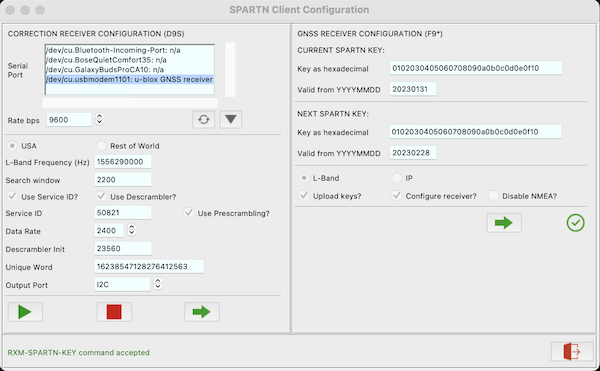
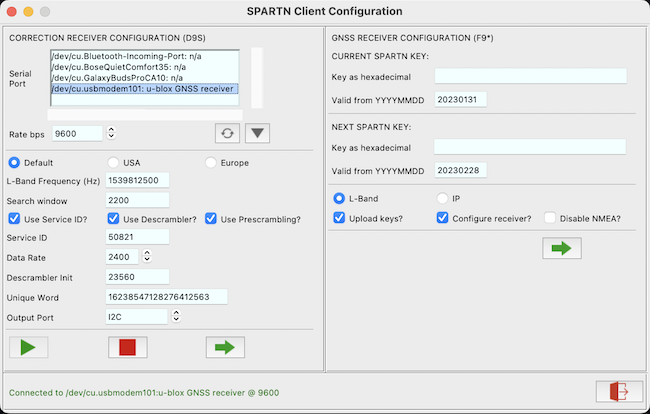
update docs

diff --git a/pygpsclient/spartn_dialog.py b/pygpsclient/spartn_dialog.py
@@ -49,6 +49,7 @@ from pyubx2 import (
     U4,
     TXN_NONE,
     SET_LAYER_RAM,
+    POLL_LAYER_RAM,
 )
 from pygpsclient.globals import (
     ICON_EXIT,
@@ -65,6 +66,7 @@ from pygpsclient.globals import (
     NOPORTS,
     SPARTN_EU,
     SPARTN_US,
+    SPARTN_FACTORY,
     SPARTN_DEFREG,
     SPARTN_LBAND,
     SPARTN_IP,
@@ -115,8 +117,8 @@ PMP_DATARATES = {
     "B4800": 4800,
 }
 SPARTN_PARMS = {
-    SPARTN_US: {
-        "freq": 1556290000,
+    SPARTN_FACTORY: {
+        "freq": 1539812500,
         "schwin": 2200,
         "usesid": 1,
         "sid": 50821,
@@ -126,12 +128,23 @@ SPARTN_PARMS = {
         "descrminit": 23560,
         "unqword": 16238547128276412563,
     },
+    SPARTN_US: {
+        "freq": 1556290000,
+        "schwin": 2200,
+        "usesid": 1,
+        "sid": 50821,
+        "drat": PMP_DATARATES["B2400"],
+        "descrm": 1,
+        "prescrm": 1,
+        "descrminit": 26969,
+        "unqword": 16238547128276412563,
+    },
     # TODO  CHECK THESE DEFAULT VALUES
     SPARTN_EU: {
         "freq": 1545260000,
         "schwin": 2200,
         "usesid": 1,
-        "sid": 21845,
+        "sid": 50821,
         "drat": PMP_DATARATES["B2400"],
         "descrm": 1,
         "prescrm": 1,
@@ -234,12 +247,18 @@ class SPARTNConfigDialog(Toplevel):
             msgmodes=list(MSGMODES.keys()),
             userport=self.__app.spartn_user_port,  # user-defined serial port
         )
+        self._rad_default = Radiobutton(
+            self._frm_corr,
+            text="Default",
+            variable=self._spartn_region,
+            value=SPARTN_FACTORY,
+        )
         self._rad_us = Radiobutton(
             self._frm_corr, text="USA", variable=self._spartn_region, value=SPARTN_US
         )
         self._rad_eu = Radiobutton(
             self._frm_corr,
-            text="Rest of World",
+            text="Europe",
             variable=self._spartn_region,
             value=SPARTN_EU,
         )
@@ -472,15 +491,16 @@ class SPARTNConfigDialog(Toplevel):
         ttk.Separator(self._frm_corr).grid(
             column=0, row=2, columnspan=4, padx=2, pady=3, sticky=(W, E)
         )
-        self._rad_us.grid(column=0, row=3, sticky=W)
-        self._rad_eu.grid(column=1, row=3, sticky=W)
+        self._rad_default.grid(column=0, row=3, sticky=W)
+        self._rad_us.grid(column=1, row=3, sticky=W)
+        self._rad_eu.grid(column=2, row=3, sticky=W)
         self._lbl_freq.grid(column=0, row=4, sticky=W)
         self._ent_freq.grid(column=1, row=4, columnspan=2, sticky=W)
         self._lbl_schwin.grid(column=0, row=5, sticky=W)
         self._ent_schwin.grid(column=1, row=5, columnspan=2, sticky=W)
         self._chk_usesid.grid(column=0, row=6, sticky=W)
         self._chk_descrm.grid(column=1, row=6, sticky=W)
-        self._chk_prescram.grid(column=2, row=7, sticky=W)
+        self._chk_prescram.grid(column=2, row=6, sticky=W)
         self._lbl_sid.grid(column=0, row=7, sticky=W)
         self._ent_sid.grid(column=1, row=7, columnspan=3, sticky=W)
         self._lbl_drat.grid(column=0, row=8, sticky=W)
@@ -706,6 +726,10 @@ class SPARTNConfigDialog(Toplevel):
         self._btn_d9sconnect.config(state=DISABLED)
         self._btn_d9sdisconnect.config(state=NORMAL)
 
+        # poll current configuration
+        msg = self._format_cfgpoll()
+        self._send_corr_command(msg)
+
     def _on_corr_disconnect(self):
         """
         Disconnect from Correction receiver.
@@ -720,6 +744,35 @@ class SPARTNConfigDialog(Toplevel):
             )
             self._btn_d9sconnect.config(state=NORMAL)
             self._btn_d9sdisconnect.config(state=DISABLED)
+
+    def _format_cfgpoll(self) -> UBXMessage:
+        """
+        Format UBX CFG-VALGET message to poll Correction receiver
+        configuration.
+        """
+
+        outport = self._spartn_outport.get()
+        if outport == PASSTHRU:
+            outport = "USB"
+
+        cfgdata = [
+            "CFG_PMP_CENTER_FREQUENCY",
+            "CFG_PMP_SEARCH_WINDOW",
+            "CFG_PMP_USE_SERVICE_ID",
+            "CFG_PMP_SERVICE_ID",
+            "CFG_PMP_DATA_RATE",
+            "CFG_PMP_USE_DESCRAMBLER",
+            "CFG_PMP_DESCRAMBLER_INIT",
+            "CFG_PMP_USE_PRESCRAMBLING",
+            "CFG_PMP_UNIQUE_WORD",
+            f"CFG_MSGOUT_UBX_RXM_PMP_{outport}",
+            f"CFG_{outport}OUTPROT_UBX",
+        ]
+        if outport in ("UART1", "UART2"):
+            cfgdata.append(f"CFG_{outport}_BAUDRATE")
+
+        msg = UBXMessage.config_poll(POLL_LAYER_RAM, 0, cfgdata)
+        return msg
 
     def _format_cfgcorr(self) -> UBXMessage:
         """

diff --git a/pygpsclient/globals.py b/pygpsclient/globals.py
@@ -112,6 +112,7 @@ COLORTAGS = "colortags"
 # SPARTN client defaults
 SPARTN_US = 0
 SPARTN_EU = 1
+SPARTN_FACTORY = 2
 SPARTN_LBAND = 0
 SPARTN_IP = 1
 SPARTN_DEFREG = SPARTN_US

diff --git a/README.md b/README.md
@@ -61,9 +61,9 @@ This is an independent project and we have no affiliation whatsoever with u-blox
 1. Data logging in parsed, binary, hexadecimal string and tabulated hexadecimal formats (NB. only binary datalogs can be re-read by PyGPSClient's parser).
 1. Track recording in GPX format.
 1. [UBX Configuration Dialog](#ubxconfig), with the ability to send a variety of UBX CFG configuration commands to u-blox GNSS devices. This includes the facility to add **user-defined commands or command sequences** - see instructions under [user-defined presets](#userdefined) below. While not intended to be a direct replacement, the application supports much of the UBX configuration functionality in u-blox's Windows-only [u-center &copy;](https://www.u-blox.com/en/product/u-center) tool.
-1. [NTRIP Client](#ntripconfig) ([differential GPS enhancement](https://en.wikipedia.org/wiki/Differential_GPS)) facility with the ability to connect to a specified NTRIP server (caster), parse the incoming RTCM3 data and feed this data to a compatible GNSS device (*requires an Internet connection and access to a suitable NTRIP caster*).
-1. [SPARTN Client dialog](#spartnconfig) with the ability to configure GNSS (e.g. F9P) and Correction (e.g. D9S) receivers to process SPARTN correction data sources.
-1. [Socket Server / NTRIP Caster](#socketserver)  with two modes of operation: (a) open, unauthenticated Socket Server or (b) NTRIP Caster.
+1. [NTRIP Client](#ntripconfig) facility with the ability to connect to a specified NTRIP caster, parse the incoming RTCM3 data and feed this data to a compatible GNSS receiver (*requires an Internet connection and access to a suitable NTRIP caster*).
+1. [SPARTN Client](#spartnconfig) facility with the connect to and configure a SPARTN Correction receiver (e.g. D9S) and pass the incoming correction data to a compatible GNSS receiver.
+1. [Socket Server / NTRIP Caster](#socketserver) facility with two modes of operation: (a) open, unauthenticated Socket Server or (b) NTRIP Caster.
 1. [GPX Track Viewer](#gpxviewer) utility with elevation and speed profiles and track metadata (*requires an Internet connection and free 
 [MapQuest API Key](https://developer.mapquest.com/user/login/sign-up)*).
 
@@ -155,19 +155,22 @@ Below is a illustrative NTRIP DGPS data log, showing:
 
 ![spartn config widget screenshot](https://github.com/semuconsulting/PyGPSClient/blob/add-SPARTN-config-dialog/images/spartnconfig_widget.png?raw=true)
 
-The SPARTN Configuration utility allows users to configure both GNSS and Correction receivers in a dual-receiver SPARTN RTK configuration (e.g. u-blox ZED-F9P and NEO-D9S). The utility uploads the necessary SPARTN decryption keys to the GNSS receiver and sets the required configurations on GNSS and/or Correction receivers.
+The SPARTN Configuration utility allows users to configure both GNSS and Correction receivers in a dual-receiver SPARTN RTK configuration (e.g. u-blox NEO-D9S and ZED-F9P). The utility uploads the necessary SPARTN decryption keys to the GNSS receiver and sets the required configurations on GNSS and/or Correction receivers.
+
+**NB:** PyGPSClient cannot currently parse or decode binary SPARTN correction data - it simply passes the data through to the receiver.
 
 To use:
 
 1. The facility can be accessed via Menu..Options..SPARTN Configuration Dialog.
-1. It provides two independent configuration sections, one for the GNSS receiver (e.g. F9P) and another for the correction receiver (e.g. D9S):
+1. It provides two independent configuration sections, one for the Correction receiver (e.g. D9S) and another for the GNSS receiver (e.g. F9P):
 
 #### Correction Receiver (D9S)
 
 1. At time of writing, the only supported SPARTN-compatible u-blox L-Band Correction receiver is the NEO-D9S.
 1. Commercial SPARTN location services like PointPerfect require different configurations for US and European regions. The utility provides default values for each region but these may need to be amended in accordance with the parameters provided by the location service. **NB:** parameters available in the public domain *may not* be appropriate and the authors of PyGPSClient **cannot** provide advice on appropriate settings.
-1. If both GNSS and Correction receivers are connected to the same PyGPSClient workstation (e.g. via separate USB ports), it is possible to run the utility in Passthough mode, whereby the output data (UBX `RXM-PMP` messages) from the Correction receiver will be automatically passed through to the GNSS receiver by PyGPSClient, without the need to connect the two externally. The 'Receiver Port' is the serial port used to connect the Correction receiver to the workstation.
-1. To connect to the Correction receiver, click ![connect icon](https://github.com/semuconsulting/PyGPSClient/blob/master/pygpsclient/resources/iconmonstr-media-control-48-24.png?raw=true). To disconnect, click ![disconnect icon](https://github.com/semuconsulting/PyGPSClient/blob/master/pygpsclient/resources/iconmonstr-media-control-50-24.png?raw=true).
+1. To connect to the Correction receiver, select the receivers's port from the Serial Port listbox and click ![connect icon](https://github.com/semuconsulting/PyGPSClient/blob/master/pygpsclient/resources/iconmonstr-media-control-48-24.png?raw=true). To disconnect, click ![disconnect icon](https://github.com/semuconsulting/PyGPSClient/blob/master/pygpsclient/resources/iconmonstr-media-control-50-24.png?raw=true).
+1. Select the required Output Port - the port used to connect the Correction receiver to the GNSS receiver e.g. UART2 or I2C.
+1. If both GNSS and Correction receivers are connected to the same PyGPSClient workstation (e.g. via separate USB ports), it is possible to run the utility in Output Port = 'Passthough' mode, whereby the output data from the Correction receiver (UBX `RXM-PMP` messages) will be automatically passed through to the GNSS receiver by PyGPSClient, without the need to connect the two externally. The 'Receiver Port' is the serial port used to connect the Correction receiver to the workstation.
 1. Click ![send button](https://github.com/semuconsulting/PyGPSClient/blob/master/pygpsclient/resources/iconmonstr-arrow-12-24.png?raw=true) to upload the configuration. The utility will send the relevant configuration command(s) to the Correction receiver and poll for an acknowledgement.
 
 #### GNSS Receiver (F9*)
@@ -177,7 +180,7 @@ To use:
 1. Enter the current and next keys in hexadecimal format e.g. `0102030405060708090a0b0c0d0e0f10`. The keys are normally 16 bytes long, or 32 hexadecimal characters.
 1. Enter the supplied Valid From dates in `YYYYMMDD` format. **NB:** These are *Valid From* dates rather than *Expiry* dates. If the location service provides Expiry dates, subtract 4 weeks from these to get the Valid From dates.
 1. Select 'Upload keys', 'Configure receiver' and 'Disable NMEA' options as required.
-1. Click the Send button to upload the configuration. The utility will send the relevant configuration command(s) to the receiver and poll for an acknowledgement.
+1. Click ![send button](https://github.com/semuconsulting/PyGPSClient/blob/master/pygpsclient/resources/iconmonstr-arrow-12-24.png?raw=true) to upload the configuration. The utility will send the relevant configuration command(s) to the receiver and poll for an acknowledgement.
 
 ---
 ### <a name="socketserver">Socket Server / NTRIP Caster Facilities</a>
